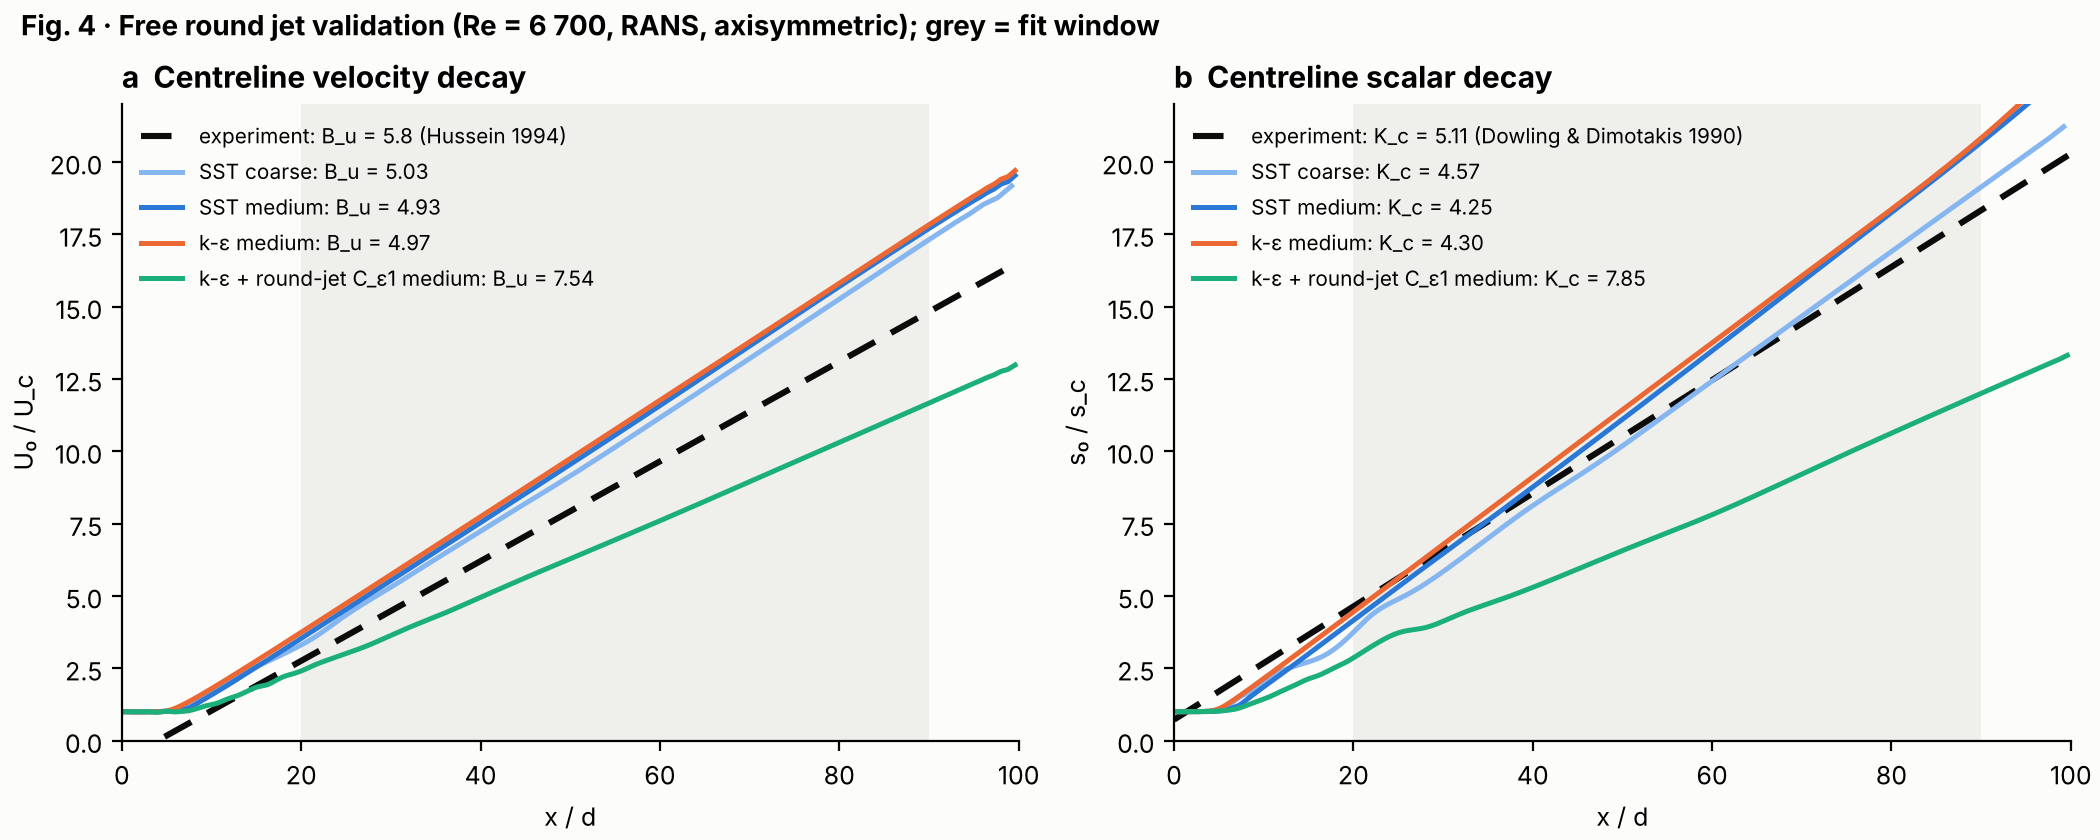
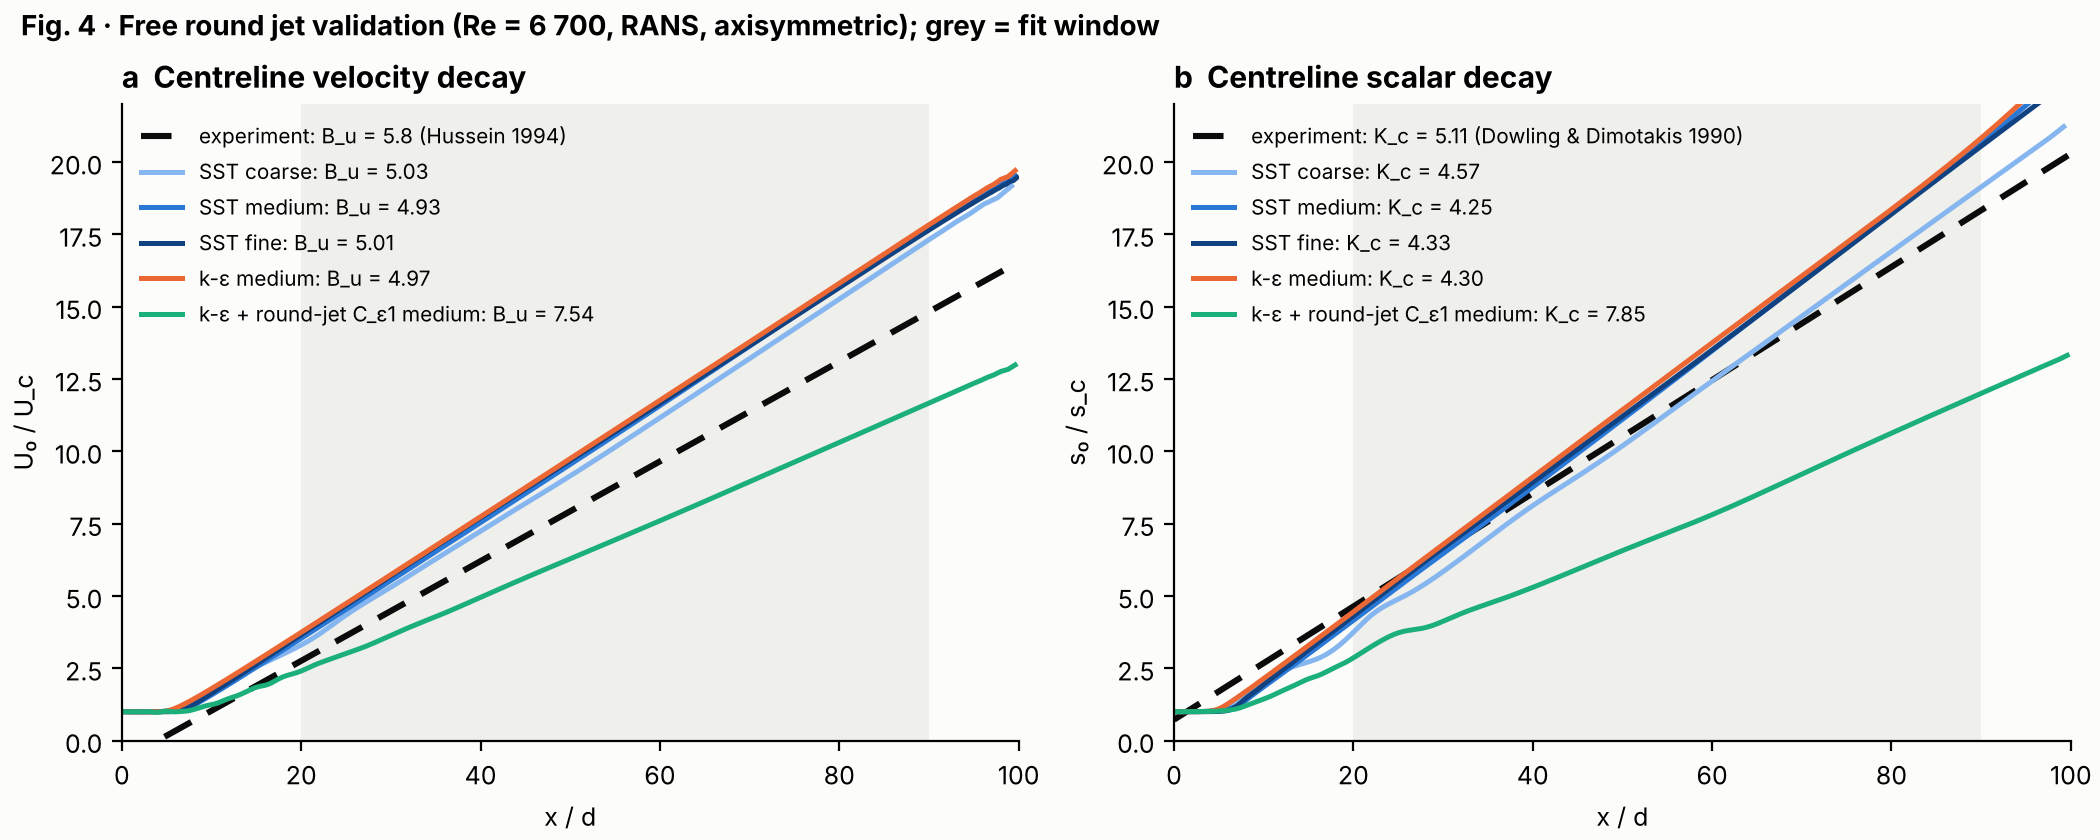
Complete jet validation: fine SST level, oscillatory mesh-uncertainty estimate, Fig. 4 jet panels
Claude-Session: https://claude.ai/code/session_0131NedNevRvPP7dQji5Ca7Y

diff --git a/cfd/validation/jet/analyze.py b/cfd/validation/jet/analyze.py
@@ -90,10 +90,13 @@ def gci(f1, f2, f3, r=2.0, Fs=1.25):
     """Roache GCI (fine-grid) from three systematically refined solutions f1 (fine), f2, f3 (coarse)."""
     e32, e21 = f3 - f2, f2 - f1
     if e21 == 0 or e32 / e21 <= 0:
-        return {"p": None, "GCI_fine": None, "extrapolated": None}
+        # oscillatory convergence: Roache GCI undefined; use U = 0.5 (max - min) (Stern et al. 2001, J Fluids Eng 123:793)
+        u = 0.5 * (max(f1, f2, f3) - min(f1, f2, f3))
+        return {"convergence": "oscillatory", "U_mesh": float(u), "U_mesh_rel_pct": float(100 * u / abs(f1))}
     p = np.log(abs(e32 / e21)) / np.log(r)
     ext = f1 + e21 / (r**p - 1)
-    return {"p": float(p), "GCI_fine": float(Fs * abs(e21 / f1) / (r**p - 1)), "extrapolated": float(ext)}
+    return {"convergence": "monotonic", "p": float(p), "GCI_fine": float(Fs * abs(e21 / f1) / (r**p - 1)),
+            "extrapolated": float(ext)}
 
 
 def main(runs: Path):
